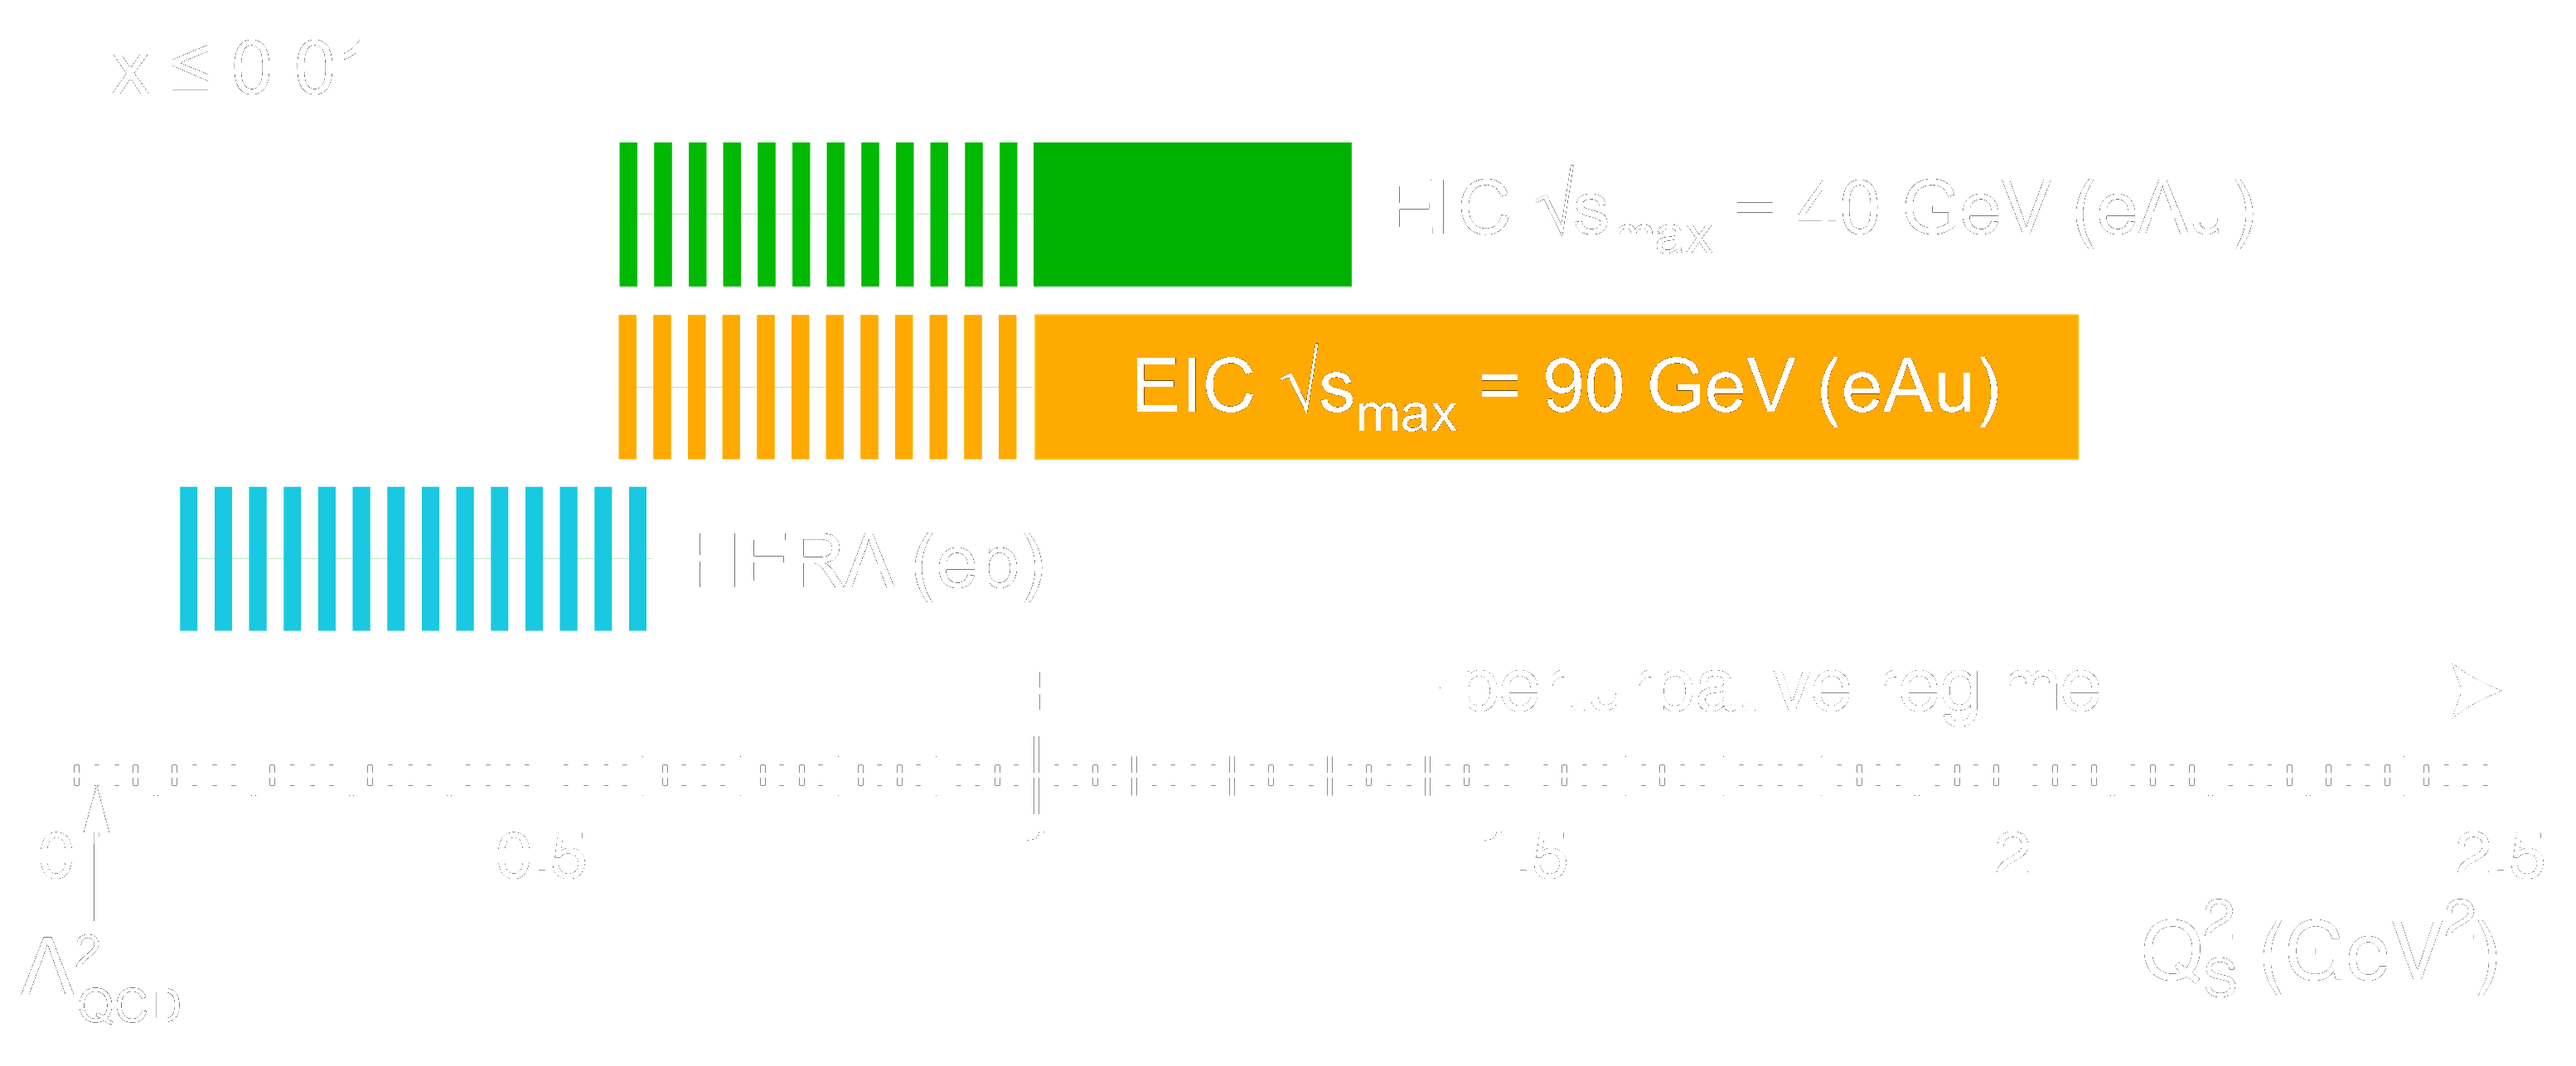
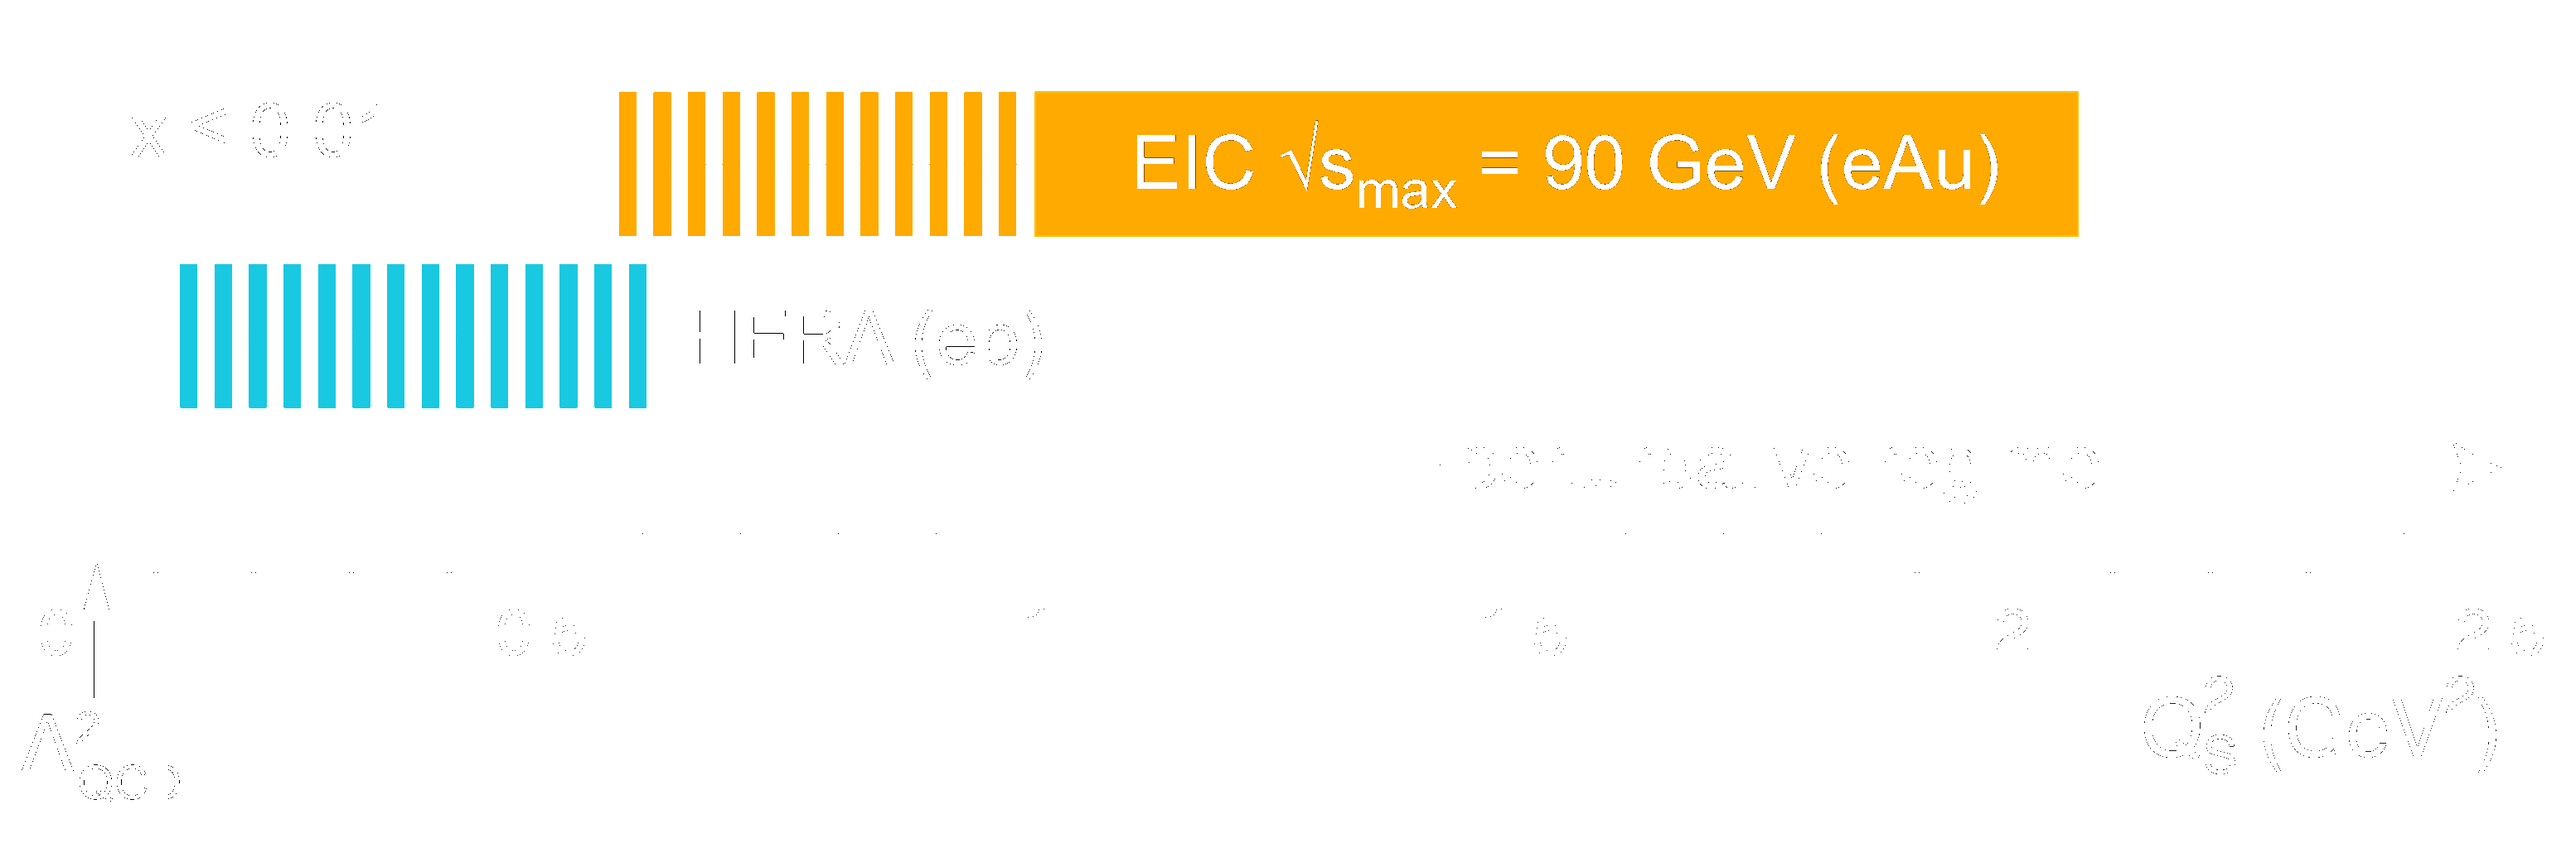
iclose to final version

Changed region(s): [[0.0624, 0.0914, 0.8115, 0.4568], [0.0624, 0.4872, 0.2497, 0.609]]

diff --git a/slides.md b/slides.md
@@ -210,7 +210,7 @@ Jalilian-Marian-Iancu-McLerran-Weigert-Leonidov-Kovner, '97-'02
 ### Energy dependence of $Q_s$
 
 <div style="text-align: center;">
-<img src="img/qsr.pdf.png" alt="qsr" style="width: 100%;">
+  <img src="img/QsReach.pdf.png" alt="qsr" style="width: 100%;">
 </div>
 
 <div class="cite">
@@ -370,11 +370,11 @@ H. Mantysaari & P. Zurita, '18
 
 ### CGC and dipole model II
 
-- In QCD separation between charges and the fields are arbitrary $\leadsto$ evolution equation
+<!--- - In QCD separation between charges and the fields are arbitrary $\leadsto$ evolution equation -->
 - <span style="color:  #ff6b35;">  The picture of the hadron wave function at high energy: </span>
   - static charges generating non-perturbative semi-classical gluons field
   - quantum corrections on top of it were also computed
-- <span style="color:  #ff6b35;">  DIS: </span>
+- <span style="color:  #ff6b35;">  DIS in dipole model: </span>
   - virtual photon perturbatively creates quark/antiquark pair
   - this pair  undertakes  multiple scattering off the semi-classical hadron field
   - this leads to Wilson lines $V(x_\perp) = {\cal} e^{i g \int dx^-   A^+ }$ describing this scattering
